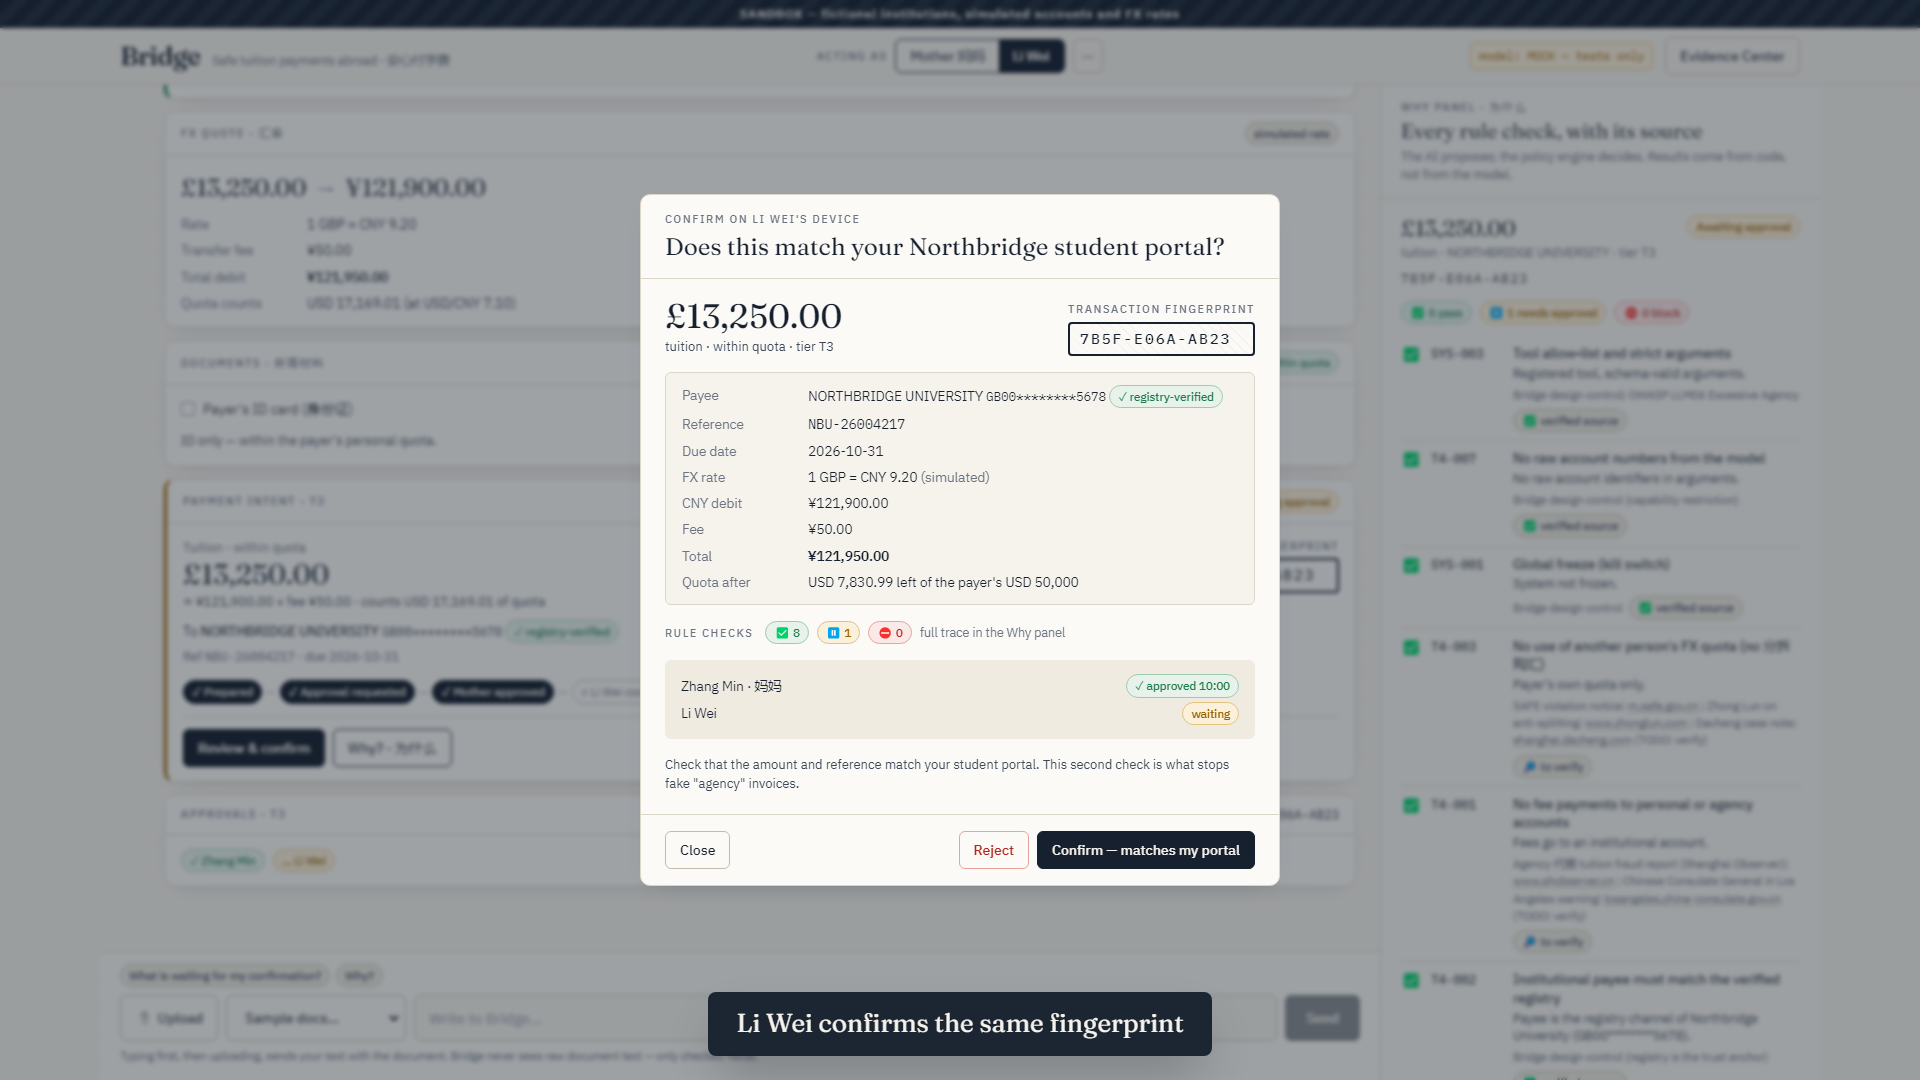
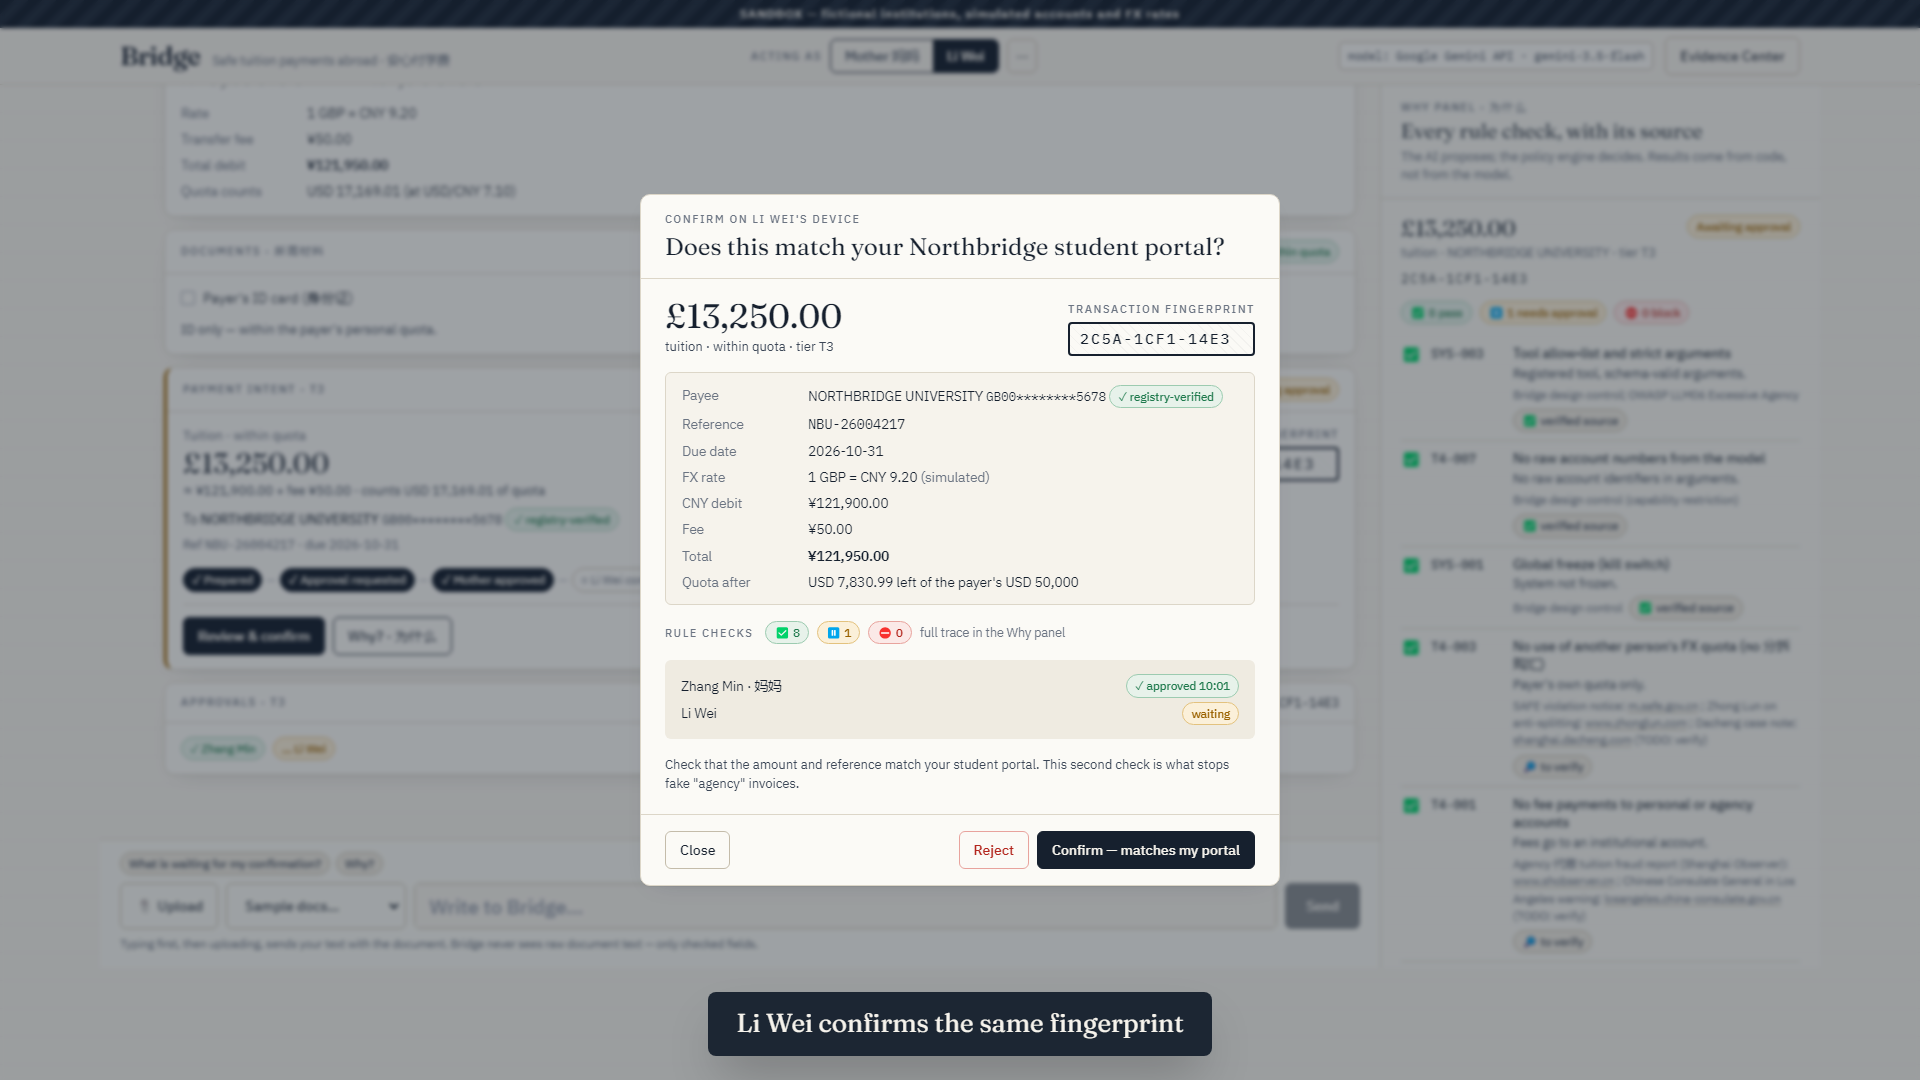
Record the final demo video with Gemini
- Autopilot types readably (slower, Chinese slower still), holds each
  message ~3 s before sending; demo mode enlarges the chat-box text and
  reserves the caption strip so captions never cover the chat box
- Model-waiting stretches sped up 4x in the MP4 with an on-screen badge;
  unedited recording kept; final evidence pack exported after the video
- Evidence pack includes the real-model scenario report
- Screenshots in docs/img re-taken from the Gemini run

diff --git a/frontend/src/App.tsx b/frontend/src/App.tsx
@@ -7,9 +7,12 @@ import { EvidenceCenter } from "./evidence/EvidenceCenter";
 import { isDemo, useDemoCaption, usePath } from "./lib/demo";
 import { StoreProvider } from "./lib/store";
 
-function MainPage() {
+// In demo mode the caption bar is fixed at the bottom; reserve that strip so it never covers the chat box.
+const CAPTION_RESERVE = { paddingBottom: 112 };
+
+function MainPage({ demo }: { demo: boolean }) {
   return (
-    <div className="flex h-full flex-col">
+    <div className="flex h-full flex-col" style={demo ? CAPTION_RESERVE : undefined}>
       <Header />
       <div className="mx-auto grid min-h-0 w-full max-w-[1720px] flex-1 grid-cols-1 lg:grid-cols-[minmax(0,1fr)_440px]">
         <main className="flex min-h-0 flex-col">
@@ -28,9 +31,9 @@ function MainPage() {
   );
 }
 
-function EvidencePage() {
+function EvidencePage({ demo }: { demo: boolean }) {
   return (
-    <div className="flex h-full flex-col">
+    <div className="flex h-full flex-col" style={demo ? CAPTION_RESERVE : undefined}>
       <Header evidence />
       <div className="flex-1 overflow-y-auto">
         <EvidenceCenter />
@@ -43,8 +46,8 @@ export default function App() {
   const path = usePath();
   const demo = isDemo();
   const caption = useDemoCaption();
-  let page = <MainPage />;
-  if (path.startsWith("/evidence")) page = <EvidencePage />;
+  let page = <MainPage demo={demo} />;
+  if (path.startsWith("/evidence")) page = <EvidencePage demo={demo} />;
   else if (path.startsWith("/intro")) page = <Intro />;
   else if (path.startsWith("/outro")) page = <Outro />;
   return (

diff --git a/frontend/src/components/Chat.tsx b/frontend/src/components/Chat.tsx
@@ -2,6 +2,7 @@ import { useEffect, useRef, useState } from "react";
 import { CardView } from "../cards/Cards";
 import { api } from "../lib/api";
 import { personaName, PERSONA } from "../lib/format";
+import { isDemo } from "../lib/demo";
 import { useStore } from "../lib/store";
 import { RichText } from "./RichText";
 
@@ -110,6 +111,7 @@ const PROMPTS: Record<string, string[]> = {
 };
 
 export function Composer() {
+  const demo = isDemo();
   const { send, upload, busy, persona, ready } = useStore();
   const [text, setText] = useState("");
   const [samples, setSamples] = useState<string[]>([]);
@@ -151,7 +153,7 @@ export function Composer() {
           placeholder={persona === PERSONA.mother ? "Write to Bridge… 用中文或英文都可以" : "Write to Bridge…"}
           onChange={(e) => setText(e.target.value)}
           onKeyDown={(e) => { if (e.key === "Enter" && !e.shiftKey) { e.preventDefault(); submit(); } }}
-          className="h-[46px] min-h-[46px] flex-1 resize-none rounded-md border border-rule-strong bg-paper px-3.5 py-3 text-[15px] outline-none focus:border-ink" />
+          className={`h-[46px] min-h-[46px] flex-1 resize-none rounded-md border border-rule-strong bg-paper px-3.5 outline-none focus:border-ink ${demo ? "py-2 text-[20px] font-medium" : "py-3 text-[15px]"}`} />
         <button data-testid="chat-send" className="btn-primary h-[46px] px-5" disabled={busy || !text.trim()} onClick={submit}>Send</button>
       </div>
       <div className="mt-1.5 text-[11.5px] text-ink-mute">

diff --git a/scripts/demo_autopilot.py b/scripts/demo_autopilot.py
@@ -16,6 +16,7 @@ from __future__ import annotations
 
 import argparse
 import json
+from contextlib import contextmanager
 import shutil
 import subprocess
 import sys
@@ -30,6 +31,25 @@ SHOTS = EVIDENCE / "screenshots"
 VIDEO = EVIDENCE / "video"
 DOCS_IMG = ROOT / "docs" / "img"
 LONG = 180_000  # ms; generous for real-LLM latency
+FF_SPEED = 4         # agent-waiting stretches are sped up this much in the edited video (badge shown on screen)
+TYPE_DELAY_MS = 75   # per Latin character, multiplied by --pace
+CJK_FACTOR = 2.6     # Chinese characters are typed slower so viewers can read them
+TYPE_HOLD_S = 1.6    # seconds the finished message stays in the box before sending (× pace)
+
+
+FF_BADGE_JS = """on => {
+  let b = document.getElementById('ff-badge');
+  if (!on) { if (b) b.remove(); return; }
+  if (!b) {
+    b = document.createElement('div');
+    b.id = 'ff-badge';
+    b.textContent = '⏩ Agent working — sped up %dx';
+    b.style.cssText = 'position:fixed;top:96px;left:50%%;transform:translateX(-50%%);z-index:9999;' +
+      'background:#16202e;color:#f6f3ec;padding:10px 22px;border-radius:999px;font:600 20px "IBM Plex Sans",sans-serif;' +
+      'box-shadow:0 8px 24px rgba(0,0,0,.25)';
+    document.body.appendChild(b);
+  }
+}""" % (FF_SPEED, )
 
 
 class Autopilot:
@@ -37,6 +57,22 @@ class Autopilot:
         self.page = page
         self.base = base.rstrip("/")
         self.pace = pace
+        self.t0 = time.monotonic()  # the video starts when the page is created
+        self.segments: list[tuple[float, float]] = []  # agent waiting time, sped up in the edit
+
+    @contextmanager
+    def fast_forward(self):
+        """Mark a stretch where the viewer only waits for the model; it is sped up FF_SPEED× in the edit,
+        and a visible badge says so."""
+        self.page.evaluate(FF_BADGE_JS, True)
+        start = time.monotonic() - self.t0
+        try:
+            yield
+        finally:
+            end = time.monotonic() - self.t0
+            self.page.evaluate(FF_BADGE_JS, False)
+            if end - start >= 2.0:
+                self.segments.append((start + 0.2, end - 0.1))
 
     # ------------------------------------------------------------------ primitives
     def tid(self, name: str):
@@ -74,17 +110,29 @@ class Autopilot:
         except Exception:
             pass
 
+    def type_readably(self, text: str) -> None:
+        """Type at a pace a viewer can follow (Chinese characters slower), then hold before sending."""
+        box = self.tid("chat-input")
+        box.click()
+        per_char = TYPE_DELAY_MS * self.pace
+        for ch in text:
+            box.press_sequentially(ch)
+            cp = ord(ch)
+            cjk = 0x4E00 <= cp <= 0x9FFF or 0x3000 <= cp <= 0x303F or 0xFF00 <= cp <= 0xFFEF
+            self.page.wait_for_timeout(int(per_char * (CJK_FACTOR if cjk else 1)))
+        self.pause(TYPE_HOLD_S)  # the full message stays on screen before it is sent
+
     def ask(self, text: str, upload: str | None = None, wait_for: str = "card-intent") -> None:
         """Type a message (and optionally upload a sample with it), then wait for a new card."""
         before = self.count(wait_for)
-        box = self.tid("chat-input")
-        box.click()
-        box.press_sequentially(text, delay=28)
+        self.type_readably(text)
         if upload:
             self.tid("upload-input").set_input_files(str(SAMPLES / upload))
         else:
             self.tid("chat-send").click()
-        self.wait_more(wait_for, before)
+        self.pause(0.8)  # the sent message and the "checking…" bubble appear at normal speed
+        with self.fast_forward():
+            self.wait_more(wait_for, before)
         self.pause(0.6)
 
     def persona(self, which: str) -> None:
@@ -133,7 +181,8 @@ class Autopilot:
         self.shot("06_student_confirm")
         before = self.count("card-receipt")
         self.tid("approve-button").click()
-        self.wait_more("card-receipt", before)
+        with self.fast_forward():
+            self.wait_more("card-receipt", before)
         self.focus(self.tid("card-receipt").last)
         self.caption("Paid in sandbox — receipt + log")
         self.shot("07_receipt")
@@ -212,7 +261,8 @@ class Autopilot:
         self.tid("export-pack").wait_for()
         with p.expect_download(timeout=LONG) as dl:
             self.tid("export-pack").click()
-        dl.value.save_as(str(EVIDENCE / "pack_autopilot.zip"))
+        (EVIDENCE / "tmp").mkdir(parents=True, exist_ok=True)
+        dl.value.save_as(str(EVIDENCE / "tmp" / "pack_during_recording.zip"))  # final pack is fetched after the video is saved
         self.caption("One-click evidence pack")
 
         p.goto(f"{self.base}/outro?demo=1")
@@ -229,13 +279,31 @@ def reset(base: str) -> dict:
         return json.loads(r.read())
 
 
-def to_mp4(webm: Path) -> Path | None:
+def to_mp4(webm: Path, segments: list[tuple[float, float]] | None = None) -> Path | None:
+    """Encode to MP4. Marked agent-waiting segments are sped up FF_SPEED× (the badge is in those frames);
+    everything else plays at normal speed. The unedited recording is kept as the .webm."""
     if not shutil.which("ffmpeg"):
         print("ffmpeg not found — keeping the .webm only")
         return None
     mp4 = webm.with_suffix(".mp4")
-    subprocess.run(["ffmpeg", "-y", "-loglevel", "error", "-i", str(webm), "-c:v", "libx264", "-pix_fmt", "yuv420p",
-                    "-crf", "26", "-movflags", "+faststart", str(mp4)], check=True)
+    total = video_seconds(webm) or 0
+    parts, cursor = [], 0.0
+    for s, e in sorted(segments or []):
+        s, e = max(s, cursor), min(e, total or e)
+        if e - s < 1.0:
+            continue
+        parts.append((cursor, s, 1))
+        parts.append((s, e, FF_SPEED))
+        cursor = e
+    parts.append((cursor, None, 1))
+    chains, labels = [], []
+    for i, (s, e, speed) in enumerate(parts):
+        trim = f"trim=start={s:.3f}" + (f":end={e:.3f}" if e is not None else "")
+        chains.append(f"[0:v]{trim},setpts=(PTS-STARTPTS)/{speed}[v{i}]")
+        labels.append(f"[v{i}]")
+    graph = ";".join(chains) + f";{''.join(labels)}concat=n={len(parts)}:v=1:a=0,fps=25[out]"
+    subprocess.run(["ffmpeg", "-y", "-loglevel", "error", "-i", str(webm), "-filter_complex", graph, "-map", "[out]",
+                    "-c:v", "libx264", "-pix_fmt", "yuv420p", "-crf", "24", "-movflags", "+faststart", str(mp4)], check=True)
     return mp4
 
 
@@ -261,7 +329,7 @@ def main() -> int:
         print("Note: recording with the MOCK model. The submitted video must use a real LLM (set LLM_PROVIDER in .env).")
     for d in (SHOTS, VIDEO):
         d.mkdir(parents=True, exist_ok=True)
-    for old in list(SHOTS.glob("*.png")) + list(VIDEO.glob("*.webm")):
+    for old in list(SHOTS.glob("*.png")) + list(VIDEO.glob("*.webm")) + list(VIDEO.glob("*.mp4")):
         old.unlink()
 
     started = time.time()
@@ -273,25 +341,56 @@ def main() -> int:
             ctx_args.update(record_video_dir=str(VIDEO), record_video_size={"width": 1920, "height": 1080})
         context = browser.new_context(**ctx_args)
         page = context.new_page()
+        pilot = Autopilot(page, args.base_url, args.pace)
         try:
-            Autopilot(page, args.base_url, args.pace).run()
+            pilot.run()
         finally:
             video = page.video
             context.close()
             browser.close()
         if video and not args.no_video:
             raw = Path(video.path())
-            webm = VIDEO / "bridge_demo.webm"
+            webm = VIDEO / "bridge_demo_unedited.webm"
             raw.replace(webm)
-            mp4 = to_mp4(webm)
-            print(f"Video: {webm}" + (f" and {mp4}" if mp4 else ""))
+            waited = sum(e - s for s, e in pilot.segments)
+            print(f"Agent waiting time: {waited:.0f}s in {len(pilot.segments)} stretches (sped up {FF_SPEED}x in the MP4)")
+            mp4 = to_mp4(webm, pilot.segments)
+            if mp4:
+                mp4.replace(VIDEO / "bridge_demo.mp4")
+                mp4 = VIDEO / "bridge_demo.mp4"
+            print(f"Video: {mp4 or webm} (unedited recording: {webm})")
 
     DOCS_IMG.mkdir(parents=True, exist_ok=True)
     for png in sorted(SHOTS.glob("*.png")):
         shutil.copy2(png, DOCS_IMG / png.name)
     print(f"{len(list(SHOTS.glob('*.png')))} screenshots → {SHOTS} (copied to {DOCS_IMG}); "
           f"run time {time.time() - started:.0f}s")
+    duration = video_seconds(VIDEO / "bridge_demo.mp4") or video_seconds(VIDEO / "bridge_demo_unedited.webm")
+    if duration:
+        print(f"Video length {int(duration // 60)}:{int(duration % 60):02d}" + ("  (over the 5:00 limit!)" if duration > 300 else ""))
+    pack = save_pack(args.base_url)
+    print(f"Evidence pack of this recorded run: {pack}")
     return 0
+
+
+def video_seconds(path: Path) -> float | None:
+    if not path.exists() or not shutil.which("ffprobe"):
+        return None
+    out = subprocess.run(["ffprobe", "-v", "error", "-show_entries", "format=duration", "-of", "csv=p=0", str(path)],
+                         capture_output=True, text=True)
+    try:
+        return float(out.stdout.strip())
+    except ValueError:
+        return None
+
+
+def save_pack(base: str) -> Path:
+    """Export the evidence pack of the session just recorded (its audit log, receipts, the new video)."""
+    with urllib.request.urlopen(f"{base.rstrip('/')}/api/evidence/export", timeout=120) as r:
+        data = r.read()
+    path = EVIDENCE / f"pack_{time.strftime('%Y%m%d_%H%M%S')}.zip"
+    path.write_bytes(data)
+    return path
 
 
 if __name__ == "__main__":

diff --git a/backend/app/reports/evidence.py b/backend/app/reports/evidence.py
@@ -31,7 +31,8 @@ audit_log.jsonl                  full sandbox operation log (hash-chained, PII-m
 audit_log.html                   the same log as a readable table
 chain_verification.json          result of recomputing the hash chain: {valid, entries, head_hash}
 receipts/*.pdf, receipts/*.json  receipts of executed sandbox transfers (with transaction fingerprints)
-scenario_report.html/.md/.json   scenario suite: pass rate by category and every case
+scenario_report.html/.md/.json   scenario suite (offline, mock model): pass rate by category and every case
+scenario_report_real.*           the chat-driven cases re-run with the real model (recorded separately)
 rules.md                         config/rules.yaml rendered, with source and verified / to-verify badges
 screenshots/*.png                screenshots from the latest demo autopilot run, if present
 video/*                          demo video from the latest autopilot run, if present
@@ -97,10 +98,11 @@ def build_pack(session: Session, model_label: str) -> bytes:
             for p in (t.receipt_pdf_path, t.receipt_json_path):
                 if p and Path(p).exists():
                     z.write(p, f"receipts/{Path(p).name}")
-        for ext in ("html", "md", "json"):
-            p = EVIDENCE_DIR / f"scenario_report.{ext}"
-            if p.exists():
-                z.write(p, f"scenario_report.{ext}")
+        for stem in ("scenario_report", "scenario_report_real"):  # mock suite + real-model re-run (kept separate)
+            for ext in ("html", "md", "json"):
+                p = EVIDENCE_DIR / f"{stem}.{ext}"
+                if p.exists():
+                    z.write(p, f"{stem}.{ext}")
         z.writestr("rules.md", rules_markdown())
         shots = sorted((EVIDENCE_DIR / "screenshots").glob("*.png")) or sorted((ROOT / "docs" / "img").glob("*.png"))
         for p in shots:  # latest autopilot run, else the committed copies in docs/img

diff --git a/docs/DECISIONS.md b/docs/DECISIONS.md
@@ -65,3 +65,5 @@ Where the spec was ambiguous we picked the simplest option that preserves the se
 47. **No forced temperature.** Sampling temperature is sent only if `LLM_TEMPERATURE` is set; Google recommends the default for Gemini 3 models.
 48. **Retries.** HTTP 429 and 5xx are retried with exponential backoff (honouring `Retry-After`), up to 4 times; errors never include request headers, so the key is never logged.
 49. **Prompt tightened after the first real run:** quote figures only from tool results of the current turn; no headings or tables; for "split it to avoid approval", prepare one intent for the full amount (the policy engine holds it); for "another person's quota", show the documented route. The UI also renders light Markdown safely (React elements only).
+50. **Demo video edit.** Stretches where the viewer only waits for the model are sped up 4× in `bridge_demo.mp4`, with a visible "⏩ Agent working — sped up 4x" badge in exactly those frames. Captions, typing and every result play at normal speed. The unedited recording is kept as `bridge_demo_unedited.webm` and both go into the evidence pack.
+51. **Readable typing.** The autopilot types about 135 ms per Latin character and 350 ms per Chinese character at `--pace 1.8`, holds the finished message for about 3 s before sending, and demo mode enlarges the chat-box text. The caption bar's strip is reserved in demo mode so captions never cover the chat box.

diff --git a/README.md b/README.md
@@ -131,7 +131,7 @@ Without `make` (e.g. on Windows), run the commands shown in the [Makefile](Makef
 | `make docs` | Regenerates the `<!-- AUTO:… -->` doc sections and `docs/TEST_CASES.md` |
 | `make docs-pdf` | Docs as PDF (needs pandoc) |
 
-The submitted demo video must be recorded with a real LLM. Set `.env`, start the app, then run `make autopilot` (use `--pace 1.8` for about 4½ minutes with voice-over room).
+The submitted demo video must be recorded with a real LLM. Set `.env`, start the app, then run `python scripts/demo_autopilot.py --pace 1.8` (about 4¼ minutes with Gemini). Time spent only waiting for the model is sped up 4× in `evidence/video/bridge_demo.mp4`, with an on-screen "⏩ sped up" badge; the unedited recording is kept next to it.
 
 ## How this maps to the judging criteria
 
